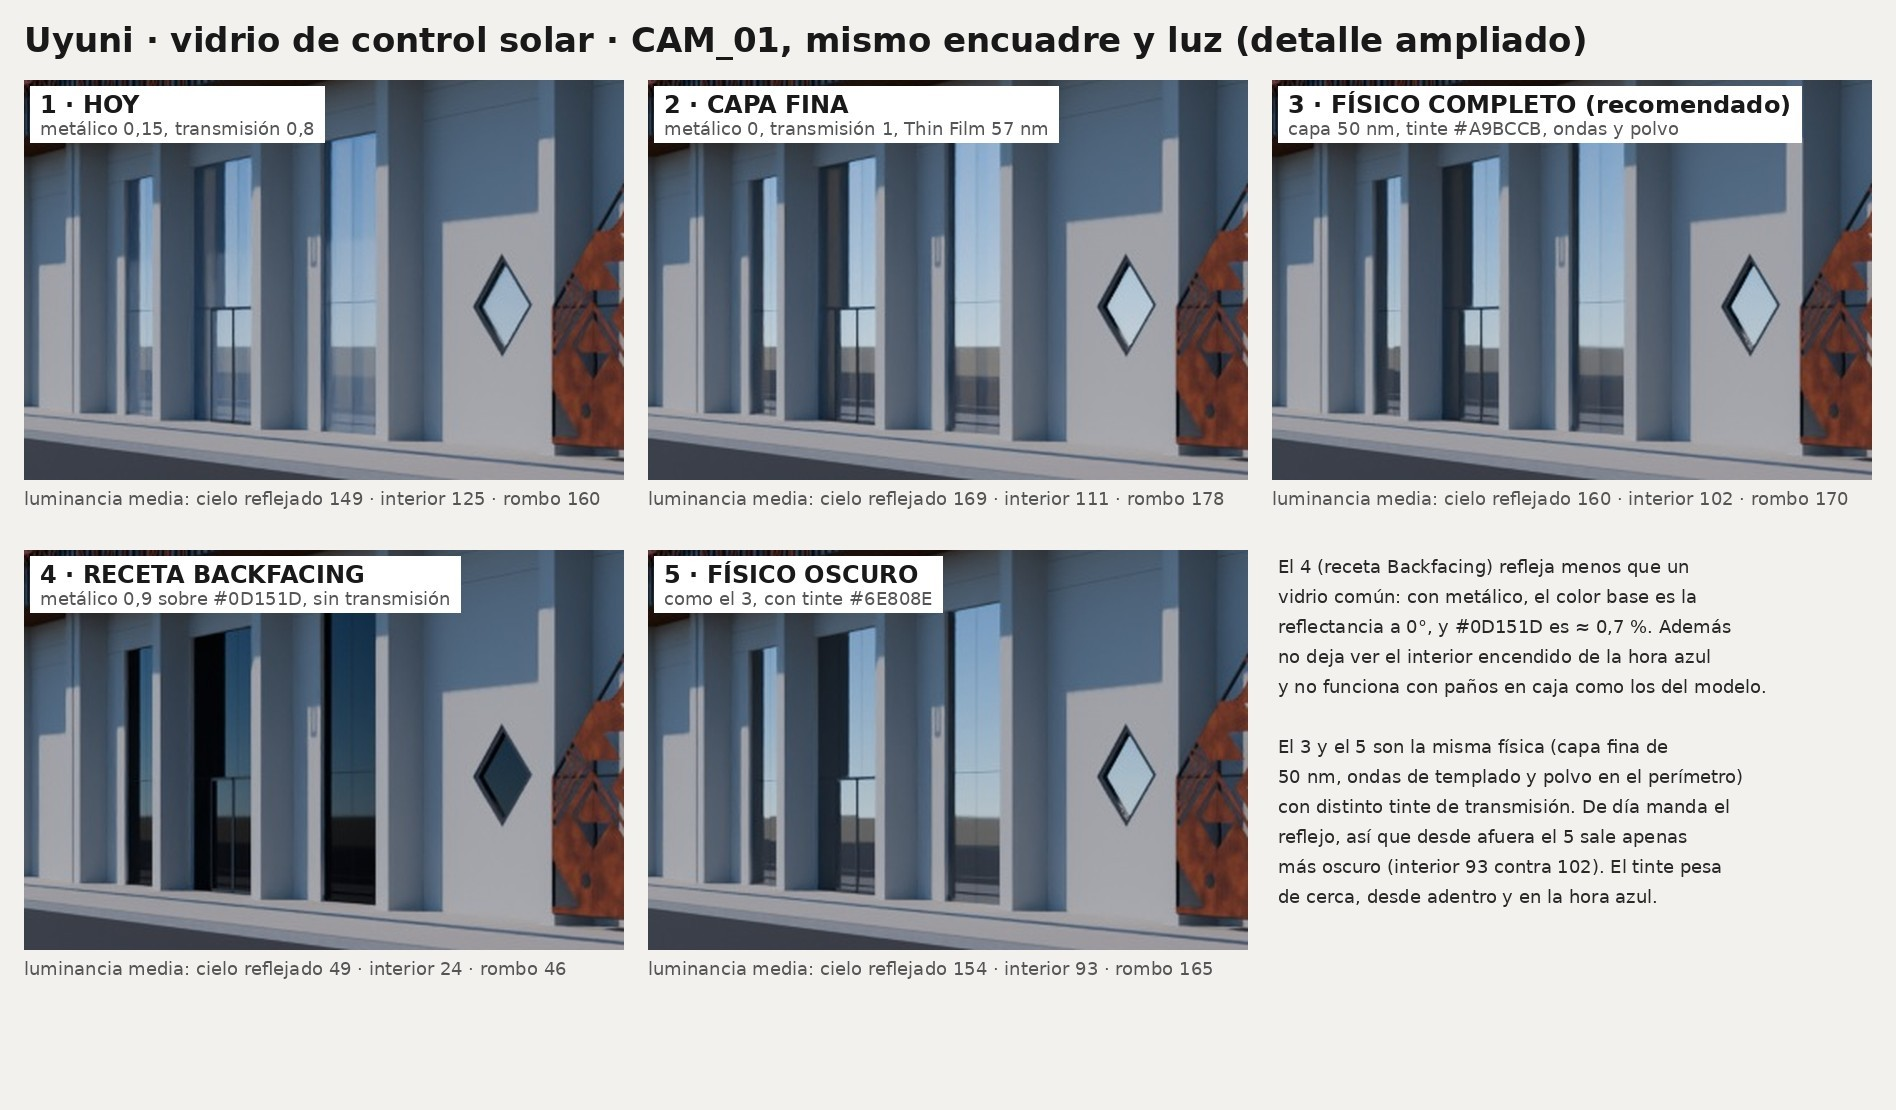
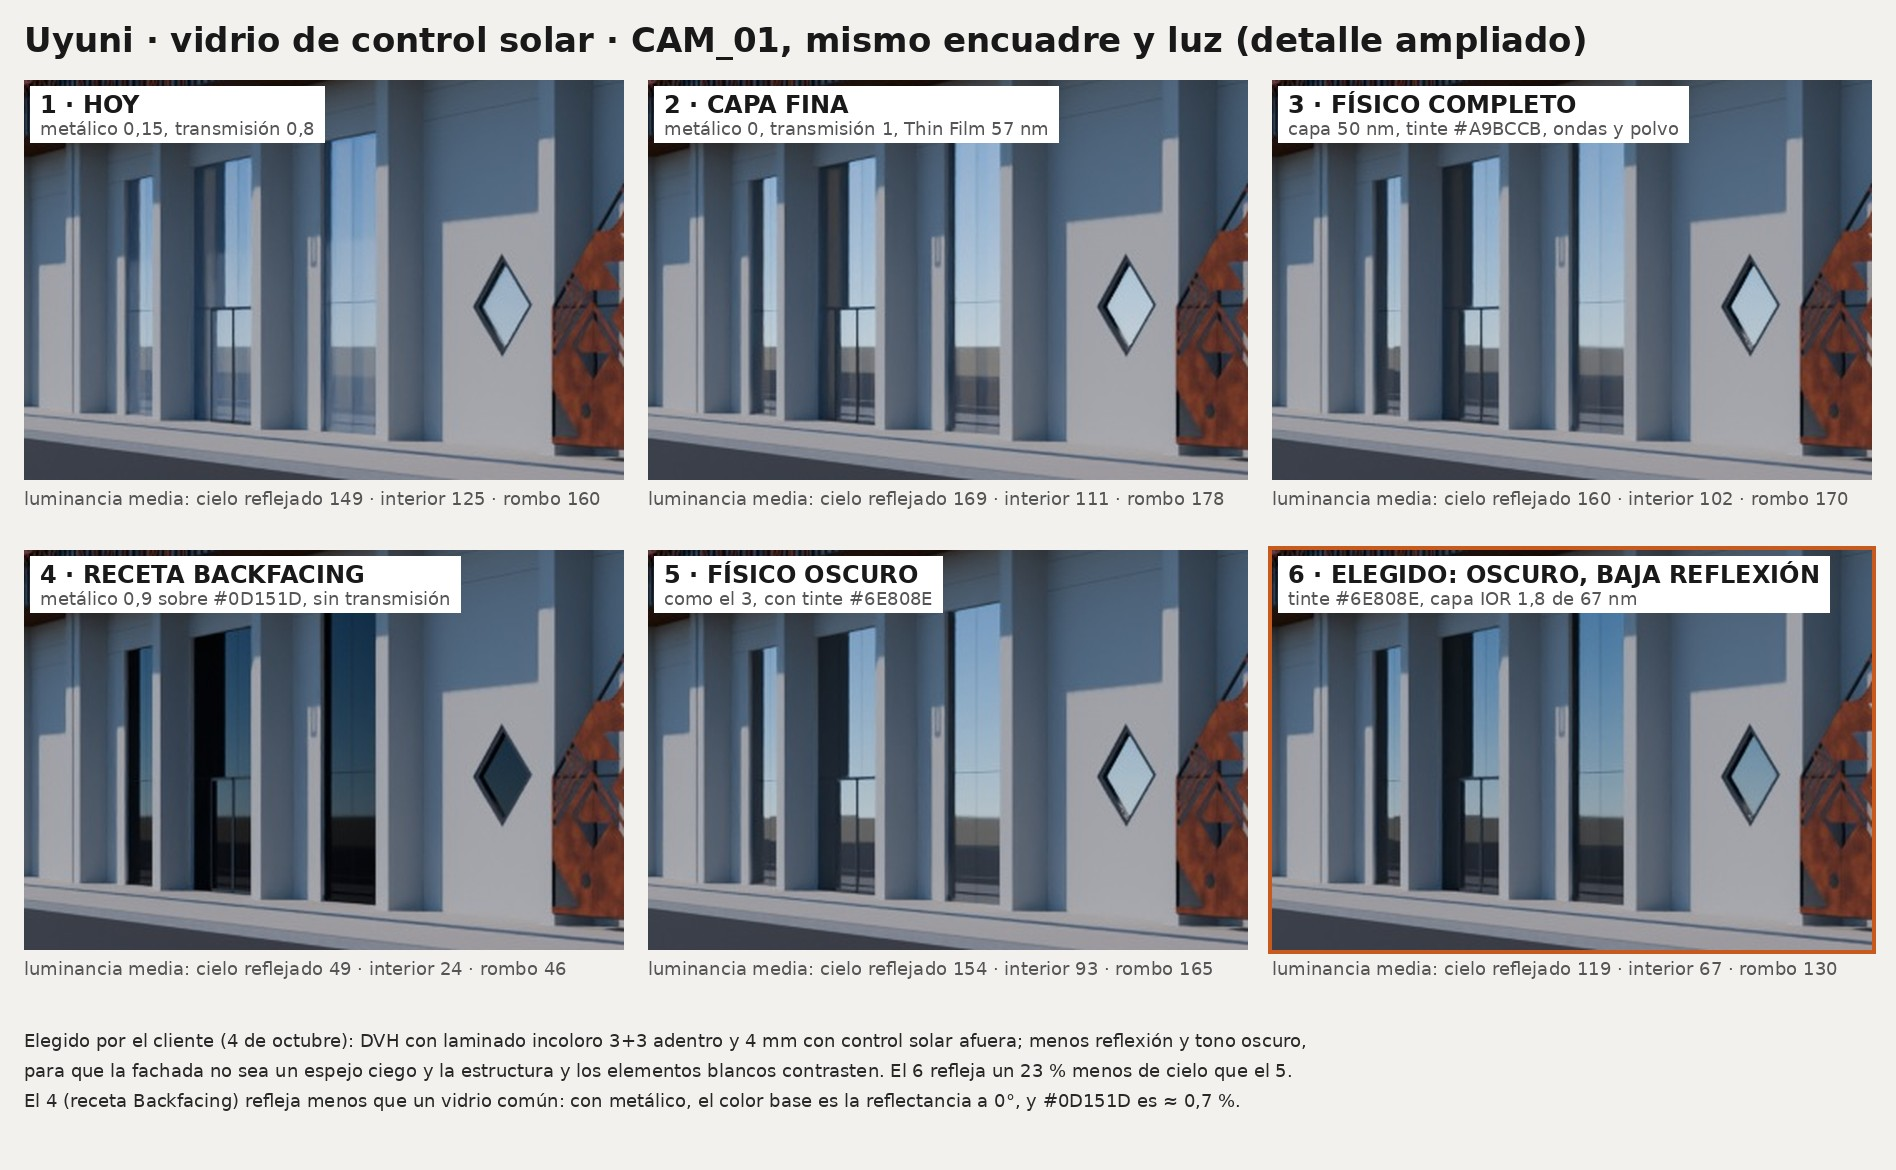
Vidrio elegido (variante 6, baja reflexión) y pedido del Lado Aire: mangas, aeronaves y pista hasta el horizonte
Claude-Session: https://claude.ai/code/session_012jRAREoyMcPvC1RQp7tEns

diff --git a/aeropuerto_uyuni/02_postproduccion/MATERIALES_INTELIGENTES.md b/aeropuerto_uyuni/02_postproduccion/MATERIALES_INTELIGENTES.md
@@ -139,7 +139,14 @@ Valores de color en sRGB; entre paréntesis, la luminancia lineal (rango físico
 
 ## 4. Vidrio de control solar
 
-Revisión del texto sobre el vidrio reflectivo ("espejo unidireccional"), contrastado con Blender 5.2 y con el modelo, y prueba en CAM_01 con cinco variantes, con la misma luz y el mismo encuadre.
+Revisión del texto sobre el vidrio reflectivo ("espejo unidireccional"), contrastado con Blender 5.2 y con el modelo, y prueba en CAM_01 con seis variantes, con la misma luz y el mismo encuadre.
+
+**Decisión del cliente (4 de octubre): variante 6.**
+- **DVH:** vidrio interior laminado incoloro de 3+3 mm, cámara de aire y vidrio exterior de 4 mm, acoplado o laminado con lámina o tratamiento de control solar.
+- **El arquitecto pide menos reflexión:** que la fachada no sea un espejo ciego y deje ver la estructura de adentro (columnas, vigas y carpinterías).
+- **Valida el tono más oscuro:** contrasta y resalta la estructura y los elementos blancos.
+- **Para el render:** la variante 6 es el tinte oscuro de la 5 con una capa de baja reflexión. La reflectancia baja de ≈ 34 % a ≈ 13 % por cara, y el cielo reflejado, un 23 %.
+- **Pendiente:** para que se vea la estructura detrás del vidrio, esta tiene que existir en el modelo. Hoy, detrás del vidrio hay una caja vacía: hay que modelar las columnas y vigas interiores cercanas a la fachada, a partir del IFC.
 
 **Hoja:** `01_blender/fotorrealismo/Prueba_vidrio_CAM01.jpg`. **Herramienta:** `01_blender/herramientas/prueba_vidrio.py`.
 
@@ -150,8 +157,9 @@ Revisión del texto sobre el vidrio reflectivo ("espejo unidireccional"), contra
 | 3 · Físico completo | capa de 50 nm (azul acero), tinte `#A9BCCB`, ondas de templado y polvo en el perímetro | 160 / 102 | **Recomendado.** Reflejo azul acero, interior más oscuro, reflejos apenas ondulados |
 | 4 · Receta *Backfacing* | `Mix Shader` por `Backfacing`; por fuera, metálico 0,9 sobre `#0D151D`, sin transmisión | 49 / 24 | Casi negro: refleja menos que un vidrio común |
 | 5 · Físico oscuro | como el 3, con tinte `#6E808E` | 154 / 93 | Desde afuera, apenas más oscuro que el 3: de día manda el reflejo. El tinte pesa de cerca, desde adentro y en la hora azul |
+| **6 · Elegido: oscuro, baja reflexión** | tinte `#6E808E`; capa de IOR 1,8 y 67 nm; ondas y polvo; interior a 3500 K | 119 / 67 | **Elegido por el cliente.** Refleja un 23 % menos de cielo que el 5. El vidrio queda oscuro y los muros claros contrastan |
 
-\*En el mismo paño, de 0 a 255 en la imagen final. Las cinco tardan lo mismo: de 110 a 116 s, con la CPU compartida con la cola de 4K.
+\*En el mismo paño, de 0 a 255 en la imagen final. Las seis tardan lo mismo: de 110 a 116 s con la CPU compartida, y 62 s la 6, con la CPU libre.
 
 **La física del texto es correcta:**
 - No existe un vidrio que deje pasar la luz en un solo sentido (reciprocidad de Helmholtz). El "espejo" de día sale de tres cosas:
@@ -195,18 +203,18 @@ Revisión del texto sobre el vidrio reflectivo ("espejo unidireccional"), contra
 | Tinte del reflejo con base `#0A1118` o `#081014` | Ese tinte, en el color base de un metal, oscurece todo (punto 4). Con capa fina, el tinte del reflejo sale del espesor de la capa, y el color base queda para el tinte de transmisión |
 | DVH a 3660 m (no está en el texto) | Un DVH fabricado abajo y sin tubos capilares se infla en Uyuni: cada paño queda convexo y el reflejo se deforma "en almohada" (sección 5). Con una especificación correcta no pasa, así que en el render no se agrega |
 
-**Receta final de `UY_VIDRIO_CONTROL_SOLAR`** (variante 3):
+**Receta final de `UY_VIDRIO_CONTROL_SOLAR`** (variante 6, elegida por el cliente):
 
 | Parámetro | Valor |
 |---|---|
 | Shader | un solo Principled BSDF, sin `Mix Shader` |
-| Base Color | tinte de transmisión `#A9BCCB`; más oscuro (`#6E808E`) si se quiere ver menos el interior |
+| Base Color | tinte de transmisión `#6E808E` (oscuro, elegido) |
 | Metallic | 0 |
 | Roughness | 0,02 en el centro y de 0,15 a 0,2 junto a la perfilería (AO de 0,12 m) |
 | IOR | 1,52 |
 | Transmission | 1 |
 | Thin Wall | sí: cada paño es una caja de 27 mm, y sus dos caras hacen de las dos hojas del DVH |
-| Thin Film | 50 nm con IOR 2,4 (azul acero) o 57 nm (plateado) |
+| Thin Film | **67 nm con IOR 1,8**: capa de baja reflexión, ≈ 13 % por cara, con pico a 482 nm (reflejo azul acero tenue). Las capas de IOR 2,4 (variantes 2, 3 y 5) reflejan ≈ 34 %: demasiado espejo para el pedido del arquitecto |
 | Normal | ondas de templado: `Wave Texture` en bandas de 0,33 m con fase por paño y `Bump` de 0,03 con distancia de 3 mm |
 
 ## 5. Nota de diseño (para el proyecto, no para el render)
@@ -303,12 +311,14 @@ Tareas, en este orden:
    - hormigón visto con poros (Voronoi F1 y relieve negativo);
    - veredas con tierra acumulada al pie de los muros y en las juntas (AO).
 
-7. Vidrio de control solar (sección 4, probado en CAM_01):
-   - un solo Principled: metálico 0, transmisión 1, IOR 1,52, Thin Wall; el color base es el tinte de transmisión (#A9BCCB);
-   - el reflejo sale de la capa: Thin Film de 50 nm con IOR 2,4 (azul acero). Muéstrame también 57 nm (plateado) y el tinte oscuro #6E808E;
-   - ondas de templado: Wave Texture en bandas de 0,33 m con fase por paño (Random Per Island) y Bump de 0,03 con 3 mm; reemplaza al abombado con ruido;
+7. Vidrio de control solar: la variante 6, elegida por el cliente (sección 4, probada en CAM_01):
+   - DVH real: laminado incoloro 3+3 adentro, cámara y 4 mm con control solar afuera; la fachada no debe parecer un espejo ciego;
+   - un solo Principled: metálico 0, transmisión 1, IOR 1,52, Thin Wall; color base oscuro, como tinte de transmisión (#6E808E);
+   - el reflejo sale de una capa de baja reflexión: Thin Film de 67 nm con IOR 1,8 (≈ 13 % por cara);
+   - ondas de templado: Wave Texture en bandas de 0,33 m con fase por paño (Random Per Island) y Bump de 0,03 con 3 mm;
    - polvo en el perímetro: AO de 0,12 m (2 rayos) que lleva la rugosidad de 0,02 a 0,18. Nunca en el Bump;
-   - no uses el truco de Backfacing ni el metálico para el reflejo: deja el vidrio casi negro, apaga la hora azul y no funciona con paños en caja.
+   - para que se vea la estructura detrás del vidrio, modela las columnas y vigas interiores cercanas a la fachada a partir del IFC, y lleva el interior a 3500 K (Blackbody), sin el resplandor naranja;
+   - no uses el truco de Backfacing ni el metálico para el reflejo.
 
 8. Suelo del contexto (si ya está con Poly Haven): costra de sal en manchas, con Voronoi Distance to Edge filtrado con F1 y deformado con ruido. Nunca sobre la calzada ni la plataforma.
 

diff --git a/aeropuerto_uyuni/TRASPASO.md b/aeropuerto_uyuni/TRASPASO.md
@@ -186,6 +186,10 @@ Por la mañana el sol da de frente sobre la fachada principal y las celosías pr
     - **Menos reflexión:** el arquitecto pide bajar la reflectividad del vidrio exterior. La fachada no debe parecer un espejo ciego: tiene que dejar ver la estructura de adentro (columnas, vigas y carpinterías).
     - **Tono más oscuro:** se valida, porque contrasta y resalta la estructura y los elementos blancos del edificio.
     - **En el render:** variante 6 de `02_postproduccion/MATERIALES_INTELIGENTES.md`, sección 4 (tinte `#6E808E` y capa de baja reflexión). Para que se vea la estructura detrás del vidrio hay que modelar las columnas y vigas interiores cercanas a la fachada, a partir del IFC.
+13. **Fachada Lado Aire, pista y plataforma (4 de octubre):**
+    - se aprueba la perspectiva general del Lado Aire;
+    - hay que incorporar al render las **mangas de abordaje**, **aeronaves Boeing de la aerolínea estatal** (BoA) y la **extensión de la pista hasta el horizonte**, para que las tomas aéreas no muestren vacíos;
+    - especificación en la sección 8.7.
 10. **Reglas de oro del brief:**
     - el DXF solo sirve para verificar: no se calca ni se importa como geometría;
     - toda la geometría se genera con `bpy` a partir de medidas numéricas;
@@ -409,6 +413,32 @@ for cam in ["CAM_01_HERO_LADO_TIERRA", "CAM_02_DETALLE_ALERO", "CAM_02B_DETALLE_
 **7.2 · Láminas PDF:** pocas palabras, renders de alto impacto con llamadas técnicas simples y el MP4 del dron.
 
 **7.3 · Cotización del servicio:** el repositorio tiene estudios de costos de renders en Bolivia hechos para otro proyecto, la terminal de Tupiza. Están en `reports/` y en `research_notes/Costos de renderizado La Paz Bolivia/`. Sirven de referencia para cotizar y para decidir si se emite con o sin factura.
+
+### 8.7 Lado Aire: mangas, aeronaves y pista (pedido del 4 de octubre)
+
+**Mangas de abordaje (puentes de embarque):**
+- **Cantidad y posición:** las del modelo del cliente (captura de la reunión): dos mangas que salen de la fachada del Lado Aire hacia los puestos de estacionamiento. Confirmar las puertas con el alzado SO del DXF; si no está claro, preguntar.
+- **Partes:**
+  - rotonda fija junto al edificio, de ≈ 3,5 m de diámetro;
+  - túnel telescópico de 2 o 3 tramos, de ≈ 2,8 m de ancho por ≈ 3 m de alto, con pendiente máxima de 1:12;
+  - cabina en la puerta del avión: el umbral de la puerta del 737-800 queda a ≈ 2,7 m del piso;
+  - columna de apoyo con tren de ruedas.
+- **Materiales:** metal pintado blanco o gris claro, con bandas vidriadas. Se generan por código, como el resto del edificio.
+
+**Aeronaves:**
+- **Modelo:** Boeing 737-800, que es el que BoA opera en las rutas nacionales (también el 737-700). Medidas: 39,5 m de largo, 35,8 m de envergadura con *winglets* y 12,5 m de alto.
+- **Cantidad y posición:** uno o dos, con la nariz hacia la manga.
+- **Origen del modelo:** un asset con licencia que permita uso comercial (CC0 o CC-BY de Sketchfab, BlenderKit u otro), registrado en `CREDITOS.md`.
+- **Librea:** la de BoA solo si el cliente confirma que se puede usar la marca; si no, una librea blanca genérica. Hay que preguntar.
+
+**Pista y plataforma:**
+- **Pista real:** 4000 × 45 m, asfalto, cabeceras 13/31, con balizamiento.
+- **Orientación:** el eje largo del edificio (X local) apunta a un azimut de ≈ 301° (sección 3), así que la pista corre casi paralela a la fachada.
+- **Posición:** se toma de OpenStreetMap o de Google Earth (`aeroway = runway`) y se pasa a coordenadas locales con la georreferencia de la sección 3.
+- **Señalización según el Anexo 14 de la OACI:** umbrales con barras, designadores 13 y 31, eje discontinuo, zona de toma de contacto, punto de visada y bordes.
+- **Calle de rodaje:** une la plataforma con la pista, con eje amarillo.
+- **Plataforma:** marcas de los puestos en amarillo y líneas de seguridad.
+- **Pista entera hasta el horizonte**, con el terreno del altiplano y los cerros detrás, para que CAM_04 y el dron no muestren el borde del suelo.
 
 ## 9. Herramientas sin interfaz
 

diff --git a/aeropuerto_uyuni/PROMPT_CONTINUACION.md b/aeropuerto_uyuni/PROMPT_CONTINUACION.md
@@ -75,6 +75,11 @@ Tareas, en este orden. Después de cada una, muéstrame el antes y el después c
    - sin árboles ni césped; calzada y plataforma libres; escala real de las texturas.
    Después, vehículos y personas reales en lugar de los 15 proxies (TRASPASO 8.2).
 
+6b. Lado Aire (pedido del cliente del 4 de octubre; TRASPASO 5.13 y 8.7):
+   - dos mangas de abordaje generadas por código, en las puertas del modelo del cliente;
+   - aeronaves Boeing 737-800 de BoA, la aerolínea estatal. Pregúntame antes de usar su librea; si no se puede, va una librea blanca genérica;
+   - la pista real (4000 × 45 m, cabeceras 13/31, casi paralela a la fachada), con la calle de rodaje, la señalización OACI y su extensión hasta el horizonte, para que las tomas aéreas no muestren vacíos.
+
 7. Escena nocturna: el prompt de ILUMINACION_NOCTURNA.md (sección 5).
 
 8. Cielo (TRASPASO 8.3): luz de mañana sincronizada con el sol del script y una variante de cielo nublado invernal.
@@ -96,7 +101,9 @@ Reglas:
   - cielo del alero listonado sobre plenum negro;
   - carpintería antracita mate;
   - sin bolardos ni postes de iluminación peatonal;
-  - el hero shot es con luz de mañana.
+  - el hero shot es con luz de mañana;
+  - vidrio de las fachadas (4 de octubre): DVH con laminado incoloro de 3+3 mm adentro y 4 mm con control solar afuera; tono oscuro y poca reflexión, para que la fachada no parezca un espejo ciego y deje ver la estructura de adentro (MATERIALES_INTELIGENTES.md, sección 4, variante 6);
+  - Lado Aire (4 de octubre): perspectiva general aprobada; faltan mangas, aeronaves y la pista hasta el horizonte (paso 6b).
 - Realismo (guía de realismo):
   - mejora la manera de fotografiar el edificio, no el edificio;
   - los colores de PALETA no se tocan; el metálico y la rugosidad sí, según la tabla, y dime el valor anterior y el nuevo;
@@ -114,7 +121,7 @@ Reglas:
   - Registra cada asset externo en 01_blender/assets/CREDITOS.md: fuente, autor, licencia y URL. Las licencias deben permitir uso comercial.
 - Antes de usar la API, revisa las trampas de Blender 5.2: TRASPASO.md (sección 10) y la guía (sección 10).
 - Si algo del CAD es ambiguo o contradice una decisión, pregúntame antes de suponer.
-- Prioriza lo que se ve en CAM_01, CAM_03, CAM_04, CAM_07 y en el recorrido del dron. El video del dron vence el lunes 5 de octubre.
+- Prioriza lo que se ve en CAM_01, CAM_03, CAM_04, CAM_07, en la perspectiva del Lado Aire y en el recorrido del dron. El video del dron vence el lunes 5 de octubre.
 
 Entrega:
 - el informe del paso 0: qué tenías hecho, a medias y pendiente;

diff --git a/aeropuerto_uyuni/02_postproduccion/GUIA_REALISMO_FOTOGRAFICO.md b/aeropuerto_uyuni/02_postproduccion/GUIA_REALISMO_FOTOGRAFICO.md
@@ -94,7 +94,7 @@ Detalle y prueba: `ILUMINACION_NOCTURNA.md`.
 | **Corten** | Dieléctrico, con un lote por plancha (*Random Per Island*: ±15 %, algunas más pardas) y pátina más densa en caras superiores y cantos |
 | **Variación por pieza** | *Random Per Island* en los listones del cielo y en las planchas de corten |
 | **Galvanizado y asfalto** | *Spangle* y árido con Voronoi F1 |
-| **Vidrio de control solar** | Un solo Principled: metálico 0, transmisión 1, IOR 1,52, `Thin Wall`; capa `Thin Film` de 50 nm con IOR 2,4 (azul acero); tinte `#A9BCCB`; ondas de templado (`Wave Texture` en bandas de 0,33 m, con fase por paño); polvo en el perímetro. **Nada de metálico para el reflejo ni del truco de Backfacing** |
+| **Vidrio de control solar** (elegido por el cliente) | Un solo Principled: metálico 0, transmisión 1, IOR 1,52, `Thin Wall`; tinte oscuro `#6E808E`; capa de baja reflexión `Thin Film` de 67 nm con IOR 1,8 (≈ 13 % por cara); ondas de templado (`Wave Texture` en bandas de 0,33 m, con fase por paño); polvo en el perímetro. La fachada no debe parecer un espejo ciego: detrás del vidrio tiene que haber estructura que ver. **Nada de metálico para el reflejo ni del truco de Backfacing** |
 | **Costo** | AO con 2 rayos y Bevel con 4. Nunca un AO o un Bevel en la altura de un `Bump` (Cycles la evalúa tres veces). Costo medido: de +34 a +61 % |
 | **Diagnóstico** | El material `UY_DIAG_MASCARAS`, como *Material Override*, pinta aristas, cavidades y gravedad en rojo, verde y azul |
 
